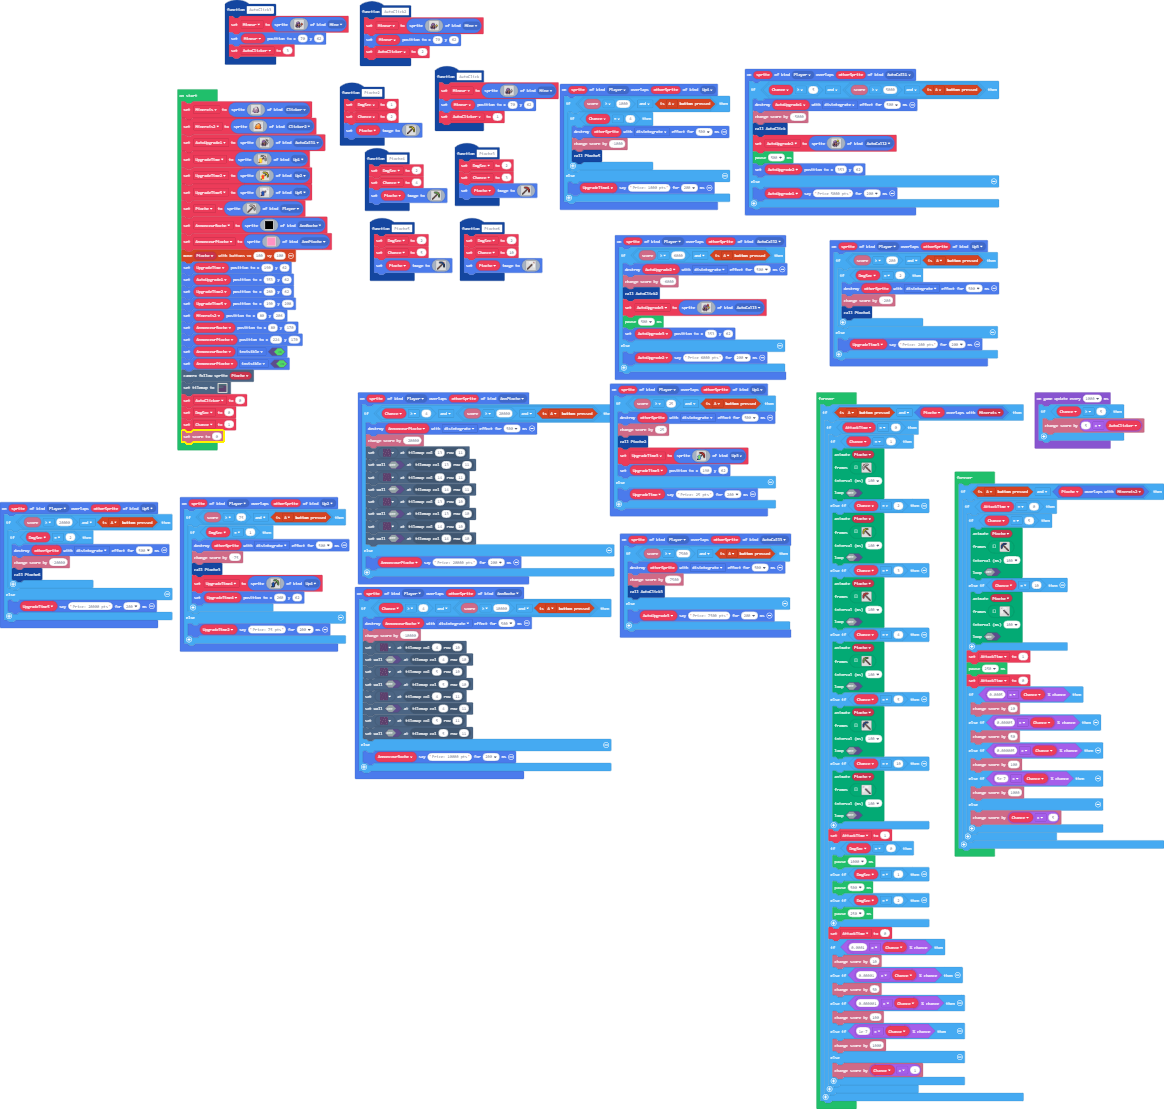
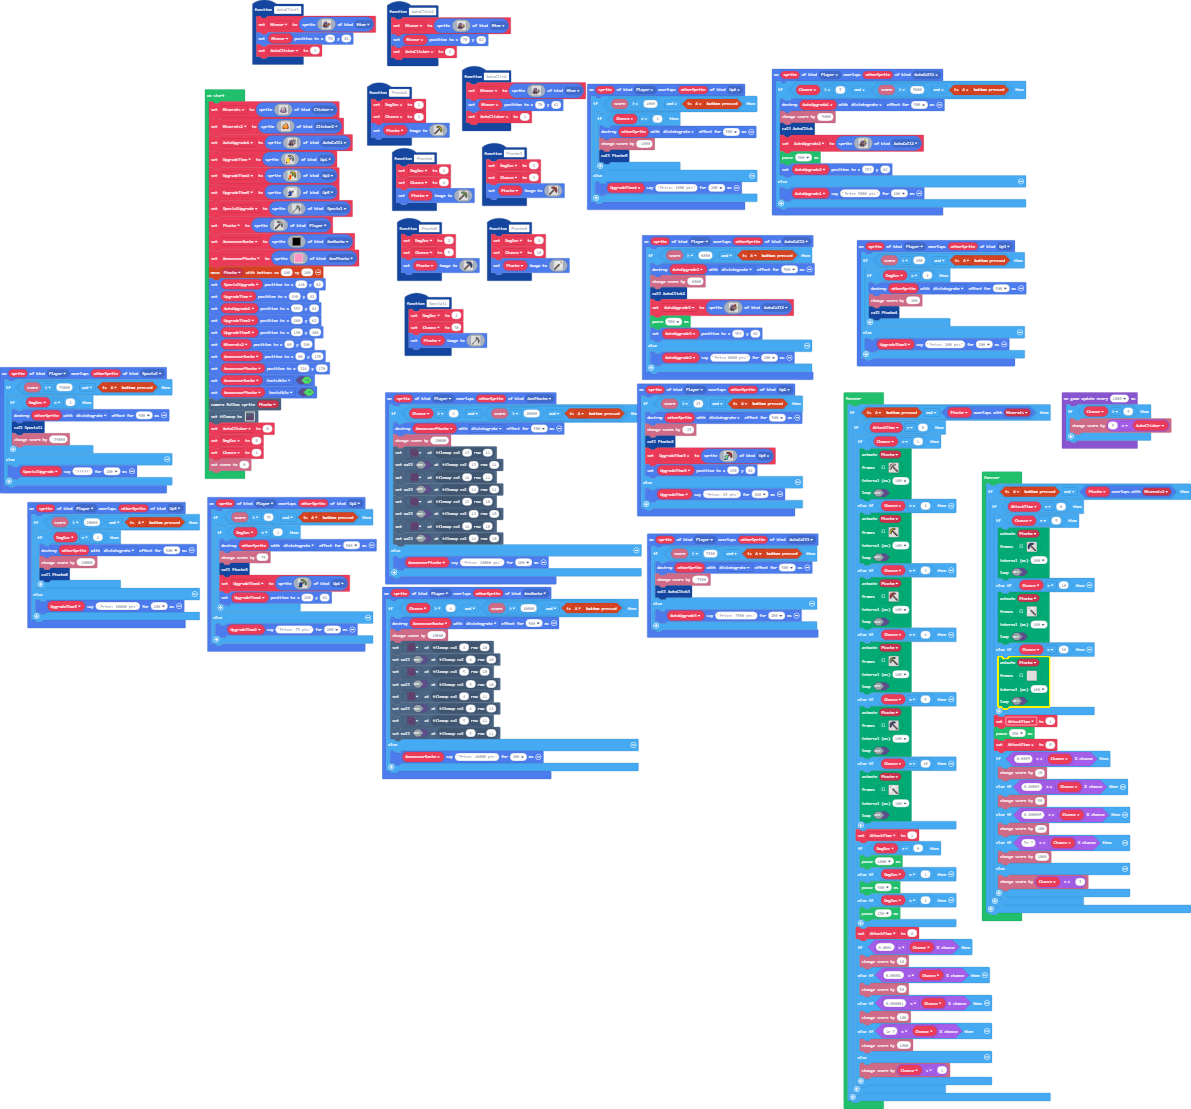
Update main.blocks, main.ts

diff --git a/main.ts b/main.ts
@@ -12,6 +12,7 @@ namespace SpriteKind {
     export const AutoCall3 = SpriteKind.create()
     export const AnnPioche = SpriteKind.create()
     export const Up5 = SpriteKind.create()
+    export const Special = SpriteKind.create()
 }
 namespace myTiles {
     //% blockIdentity=images._tile
@@ -100,6 +101,42 @@ f d d f f a a a a c e e c a f f e f f . . . . .
     Mineur.setPosition(70, 62)
     AutoClicker = 1
 }
+function Special1 () {
+    DmgSec = 2
+    Chance = 30
+    Pioche.setImage(img`
+. . . . . . . . . . . . . . . . . . . . . . . . . . . . . . 
+. . . . . . . . . . . . . . . . . . . . . . . . . . . . . . 
+. . . . . . . . . . . . . . . . f f . . . . . . . . . . . . 
+. . . . . . . . . . . . . . . . f f f . . . f f . . . . . . 
+. . . . . . . . . . . . . . . . . f f f . f 1 1 f . . . . . 
+. . . . . . . . . . . . . . . . . f f 1 f f f 1 1 f . . . . 
+. . . . . . . . . . . . . . . . . f f f 1 f f f 1 f . . . . 
+. . . . . . . . . . . . . . f f . . f f 1 f 1 f f . . . . . 
+. . . . . . . . . . . . . . f f f . f f f 1 1 f 1 f . . . . 
+. . . . . . . . . . . . . . . f f f 1 1 f 1 f f 1 1 f . . . 
+. . . . . . . . . . . . . . . f f f f 1 1 f f f 1 f 1 f . . 
+. . . . . . . . . . . . . . . . f f 1 f f f 1 1 f f 1 f . . 
+. . . . . . . . . . . . . . . . f 1 f . . f f f f 1 1 1 f . 
+. . . . . . . . . . . . . . . f 1 f . . . . f f f 1 f 1 f . 
+. . . . . . . . . . . . . f f f f . . . . . . f f f f 1 f . 
+. . . . . . . . . . . . f f 1 f . . . . . . . f f f f f 1 f 
+. . . . . . . . . . . . f 1 f f . . . . . . . . f f f f 1 f 
+. . . . . . . . . . . f f f f . . . . . . . . . f f f f 1 f 
+. . . . . . . . . . f 1 f . . . . . . . . . . . f f f f 1 f 
+. . . . . . . . . f 1 f . . . . . . . . . . . . . f f 1 f . 
+. . . . . . . . f 1 f . . . . . . . . . . . . . . f f 1 f . 
+. . . . . . . f 1 f . . . . . . . . . . . . . . . f f 1 f . 
+. . . . . . f 1 f . . . . . . . . . . . . . . . . f 1 f . . 
+. . . . . f 1 f . . . . . . . . . . . . . . . . f f 1 f . . 
+. . . . f 1 f . . . . . . . . . . . . . . . . . f 1 f . . . 
+. . f f f f . . . . . . . . . . . . . . . . . f 1 f . . . . 
+f f f 1 f . . . . . . . . . . . . . . . . . f f f . . . . . 
+f 1 1 f f . . . . . . . . . . . . . . . . . . . . . . . . . 
+f 1 1 f . . . . . . . . . . . . . . . . . . . . . . . . . . 
+f f f f . . . . . . . . . . . . . . . . . . . . . . . . . . 
+`)
+}
 sprites.onOverlap(SpriteKind.Player, SpriteKind.Up4, function (sprite, otherSprite) {
     if (info.score() >= 1000 && controller.A.isPressed()) {
         if (Chance == 4) {
@@ -109,6 +146,17 @@ sprites.onOverlap(SpriteKind.Player, SpriteKind.Up4, function (sprite, otherSpri
         }
     } else {
         UpgradeTime4.say("Price: 1000 pts", 200)
+    }
+})
+sprites.onOverlap(SpriteKind.Player, SpriteKind.Special, function (sprite, otherSprite) {
+    if (info.score() >= 75000 && controller.A.isPressed()) {
+        if (DmgSec == 2) {
+            otherSprite.destroy(effects.disintegrate, 500)
+            Special1()
+            info.changeScoreBy(-75000)
+        }
+    } else {
+        SpecialUpgrade.say("?????", 200)
     }
 })
 function AutoClick3 () {
@@ -421,6 +469,7 @@ let AutoClicker = 0
 let AnnonceurPioche: Sprite = null
 let AnnonceurRoche: Sprite = null
 let Pioche: Sprite = null
+let SpecialUpgrade: Sprite = null
 let UpgradeTime5: Sprite = null
 let UpgradeTime2: Sprite = null
 let UpgradeTime: Sprite = null
@@ -562,6 +611,38 @@ c 8 8 8 8 8 c . . . 1 . 1
 f c 8 8 8 c . . . . . . . 
 f f c c c . . . . . . . . 
 `, SpriteKind.Up5)
+SpecialUpgrade = sprites.create(img`
+. . . . . . . . . . . . . . . . . . . . . . . . . . . . . . 
+. . . . . . . . . . . . . . . . . . . . . . . . . . . . . . 
+. . . . . . . . . . . . . . . . f f . . . . . . . . . . . . 
+. . . . . . . . . . . . . . . . f f f . . . f f . . . . . . 
+. . . . . . . . . . . . . . . . . f f f . f 1 1 f . . . . . 
+. . . . . . . . . . . . . . . . . f f 1 f f f 1 1 f . . . . 
+. . . . . . . . . . . . . . . . . f f f 1 f f f 1 f . . . . 
+. . . . . . . . . . . . . . f f . . f f 1 f 1 f f . . . . . 
+. . . . . . . . . . . . . . f f f . f f f 1 1 f 1 f . . . . 
+. . . . . . . . . . . . . . . f f f 1 1 f 1 f f 1 1 f . . . 
+. . . . . . . . . . . . . . . f f f f 1 1 f f f 1 f 1 f . . 
+. . . . . . . . . . . . . . . . f f 1 f f f 1 1 f f 1 f . . 
+. . . . . . . . . . . . . . . . f 1 f . . f f f f 1 1 1 f . 
+. . . . . . . . . . . . . . . f 1 f . . . . f f f 1 f 1 f . 
+. . . . . . . . . . . . . f f f f . . . . . . f f f f 1 f . 
+. . . . . . . . . . . . f f 1 f . . . . . . . f f f f f 1 f 
+. . . . . . . . . . . . f 1 f f . . . . . . . . f f f f 1 f 
+. . . . . . . . . . . f f f f . . . . . . . . . f f f f 1 f 
+. . . . . . . . . . f 1 f . . . . . . . . . . . f f f f 1 f 
+. . . . . . . . . f 1 f . . . . . . . . . . . . . f f 1 f . 
+. . . . . . . . f 1 f . . . . . . . . . . . . . . f f 1 f . 
+. . . . . . . f 1 f . . . . . . . . . . . . . . . f f 1 f . 
+. . . . . . f 1 f . . . . . . . . . . . . . . . . f 1 f . . 
+. . . . . f 1 f . . . . . . . . . . . . . . . . f f 1 f . . 
+. . . . f 1 f . . . . . . . . . . . . . . . . . f 1 f . . . 
+. . f f f f . . . . . . . . . . . . . . . . . f 1 f . . . . 
+f f f 1 f . . . . . . . . . . . . . . . . . f f f . . . . . 
+f 1 1 f f . . . . . . . . . . . . . . . . . . . . . . . . . 
+f 1 1 f . . . . . . . . . . . . . . . . . . . . . . . . . . 
+f f f f . . . . . . . . . . . . . . . . . . . . . . . . . . 
+`, SpriteKind.Special)
 Pioche = sprites.create(img`
 . . . . f f f f f . . . . 
 . . . f 1 1 1 1 1 f e e . 
@@ -646,6 +727,7 @@ AnnonceurPioche = sprites.create(img`
 3 3 3 3 3 3 3 3 3 3 3 3 3 3 3 3 3 3 3 3 3 3 3 3 3 3 3 3 3 3 3 3 
 `, SpriteKind.AnnPioche)
 controller.moveSprite(Pioche, 100, 100)
+SpecialUpgrade.setPosition(448, 62)
 UpgradeTime.setPosition(190, 62)
 AutoUpgrade1.setPosition(353, 62)
 UpgradeTime2.setPosition(260, 62)
@@ -660,10 +742,10 @@ tiles.setTilemap(tiles.createTilemap(
[1 lines of base64/hex data omitted]
             img`
 . . . . . . . . . . . . . . . . . . . . . . . . . . . . . . . . 
-2 2 2 2 2 2 2 2 2 2 2 2 2 2 2 2 2 2 2 2 2 2 2 2 . 2 2 . . 2 2 2 
-2 2 2 2 2 2 2 2 2 2 2 2 2 2 2 2 2 2 2 2 2 2 2 2 . 2 2 . . 2 2 2 
-2 2 2 . . . . 2 2 2 2 . . . . . . 2 2 2 2 . . . . 2 2 . . 2 2 2 
-2 2 2 . . . . 2 2 2 2 . . . . . . 2 2 2 2 . . 2 2 2 2 . . 2 2 2 
+. . . . . . . . . . . . . . . . . . . . . . . . . . . . . . . . 
+2 2 2 2 2 2 2 2 2 2 2 2 2 2 2 2 2 2 . . 2 2 2 2 2 2 2 . . 2 2 2 
+2 2 2 . . . . 2 2 2 2 . . . . . . . . . 2 . . 2 2 2 2 . . 2 2 2 
+2 2 2 . . . . 2 2 2 2 . . . . . . . . . 2 . . 2 2 2 2 . . 2 2 2 
 2 2 2 2 . . 2 2 2 2 2 2 2 . . 2 2 2 2 2 2 . . 2 2 2 2 2 2 2 2 2 
 2 2 2 2 . . 2 2 2 2 2 2 2 . . 2 2 2 2 2 2 . . 2 2 2 2 2 2 2 2 2 
 2 . . . . . . . . . . . . . . . . . . . . . . . . . . . . . . 2 
@@ -1005,6 +1087,75 @@ f f . . . . . . . . . . .
 . f b f . . . . . . . . . 
 f b f . . . . . . . . . . 
 f f . . . . . . . . . . . 
+`],
+                100,
+                false
+                )
+            } else if (Chance == 30) {
+                animation.runImageAnimation(
+                Pioche,
+                [img`
+. . . . . . . . . . . . . . . . . . . . . . . . . . . . . . 
+. . . . . . . . . . . . . . . . . . . . . . . . . . . . . . 
+. . . . . . . . . . . . . . . . . . . . . . . . . . . . . . 
+. . . . . . . . . . . . . . . . . . . . . . . . . . . . . . 
+. . . . . . . . . . . . . . . . . . . . . . . . . . . . . . 
+. . . . . . . . . . . . . . . . . . . . . . . . . . . . . . 
+. . . . . . . . . . . . . . . . . . . . . . . . . . . . . . 
+. . . . . . . . . . . . . . . . . . . . . . . . . . . . . . 
+. . . . . . . . . . . . . . . . . . . . . . . . . . . . . . 
+. . . . . . . . . . . . . . . . . . . . . . . . . . . . . . 
+. . . . . . . . . . . . . . . . . . . . . . . . . . . . . . 
+. . . . . . . . . . . . . . . . . . . . . . . . . . . . . . 
+. . . . . . . . . . . . . . . . . . . . . . . . . . . . . . 
+. . . . . . . . . . . . . . . . . . . . . . . . . . . . . . 
+. . . . . . . . . . . . . . . . . . . . . . . . . . . . . . 
+. . . . . . . . . . . . . . . . . . . . . . . . . . . . . . 
+. . . . . . . . . . . . . . . . . . . . . . . . . . . . . . 
+. . . . . . . . . . . . . . . . . . . . . . . . . . . . . . 
+. . . . . . . . . . . . . . . . . . . . . . . . . . . . . . 
+. . . . . . . . . . . . . . . . . . . . . . . . . . . . . . 
+. . . . . . . . . . . . . . . . . . . . . . . . . . . . . . 
+. . . . . . . . . . . . . . . . . . . . . . . . . . . . . . 
+. . . . . . . . . . . . . . . . . . . . . . . . . . . . . . 
+. . . . . . . . . . . . . . . . . . . . . . . . . . . . . . 
+. . . . . . . . . . . . . . . . . . . . . . . . . . . . . . 
+. . . . . . . . . . . . . . . . . . . . . . . . . . . . . . 
+. . . . . . . . . . . . . . . . . . . . . . . . . . . . . . 
+. . . . . . . . . . . . . . . . . . . . . . . . . . . . . . 
+. . . . . . . . . . . . . . . . . . . . . . . . . . . . . . 
+. . . . . . . . . . . . . . . . . . . . . . . . . . . . . . 
+`,img`
+. . . . . . . . . . . . . . . . . . . . . . . . . . . . . . 
+. . . . . . . . . . . . . . . . . . . . . . . . . . . . . . 
+. . . . . . . . . . . . . . . . . . . . . . . . . . . . . . 
+. . . . . . . . . . . . . . . . . . . . . . . . . . . . . . 
+. . . . . . . . . . . . . . . . . . . . . . . . . . . . . . 
+. . . . . . . . . . . . . . . . . . . . . . . . . . . . . . 
+. . . . . . . . . . . . . . . . . . . . . . . . . . . . . . 
+. . . . . . . . . . . . . . . . . . . . . . . . . . . . . . 
+. . . . . . . . . . . . . . . . . . . . . . . . . . . . . . 
+. . . . . . . . . . . . . . . . . . . . . . . . . . . . . . 
+. . . . . . . . . . . . . . . . . . . . . . . . . . . . . . 
+. . . . . . . . . . . . . . . . . . . . . . . . . . . . . . 
+. . . . . . . . . . . . . . . . . . . . . . . . . . . . . . 
+. . . . . . . . . . . . . . . . . . . . . . . . . . . . . . 
+. . . . . . . . . . . . . . . . . . . . . . . . . . . . . . 
+. . . . . . . . . . . . . . . . . . . . . . . . . . . . . . 
+. . . . . . . . . . . . . . . . . . . . . . . . . . . . . . 
+. . . . . . . . . . . . . . . . . . . . . . . . . . . . . . 
+. . . . . . . . . . . . . . . . . . . . . . . . . . . . . . 
+. . . . . . . . . . . . . . . . . . . . . . . . . . . . . . 
+. . . . . . . . . . . . . . . . . . . . . . . . . . . . . . 
+. . . . . . . . . . . . . . . . . . . . . . . . . . . . . . 
+. . . . . . . . . . . . . . . . . . . . . . . . . . . . . . 
+. . . . . . . . . . . . . . . . . . . . . . . . . . . . . . 
+. . . . . . . . . . . . . . . . . . . . . . . . . . . . . . 
+. . . . . . . . . . . . . . . . . . . . . . . . . . . . . . 
+. . . . . . . . . . . . . . . . . . . . . . . . . . . . . . 
+. . . . . . . . . . . . . . . . . . . . . . . . . . . . . . 
+. . . . . . . . . . . . . . . . . . . . . . . . . . . . . . 
+. . . . . . . . . . . . . . . . . . . . . . . . . . . . . . 
 `],
                 100,
                 false
